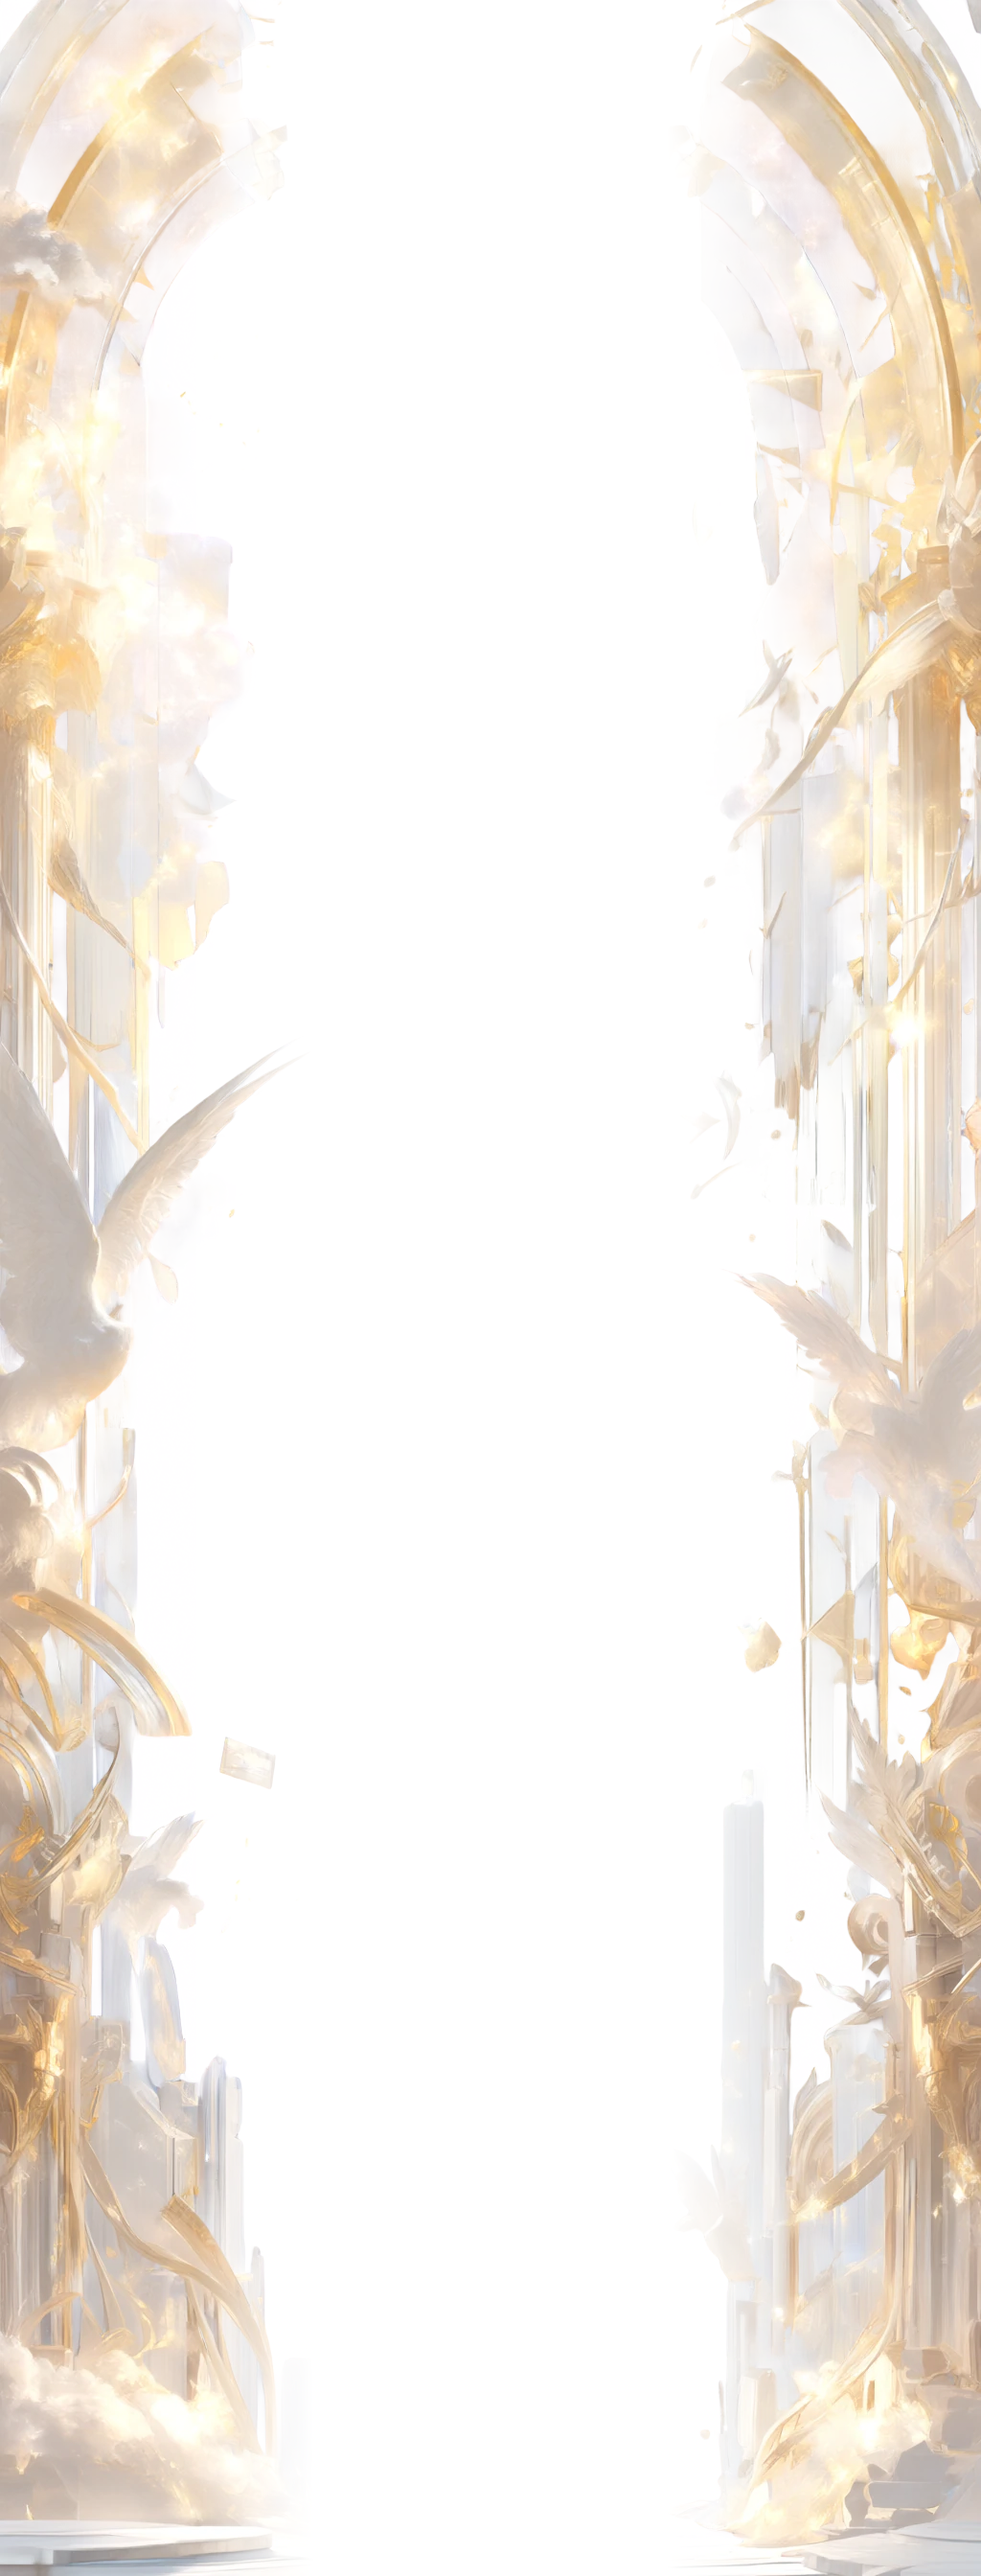
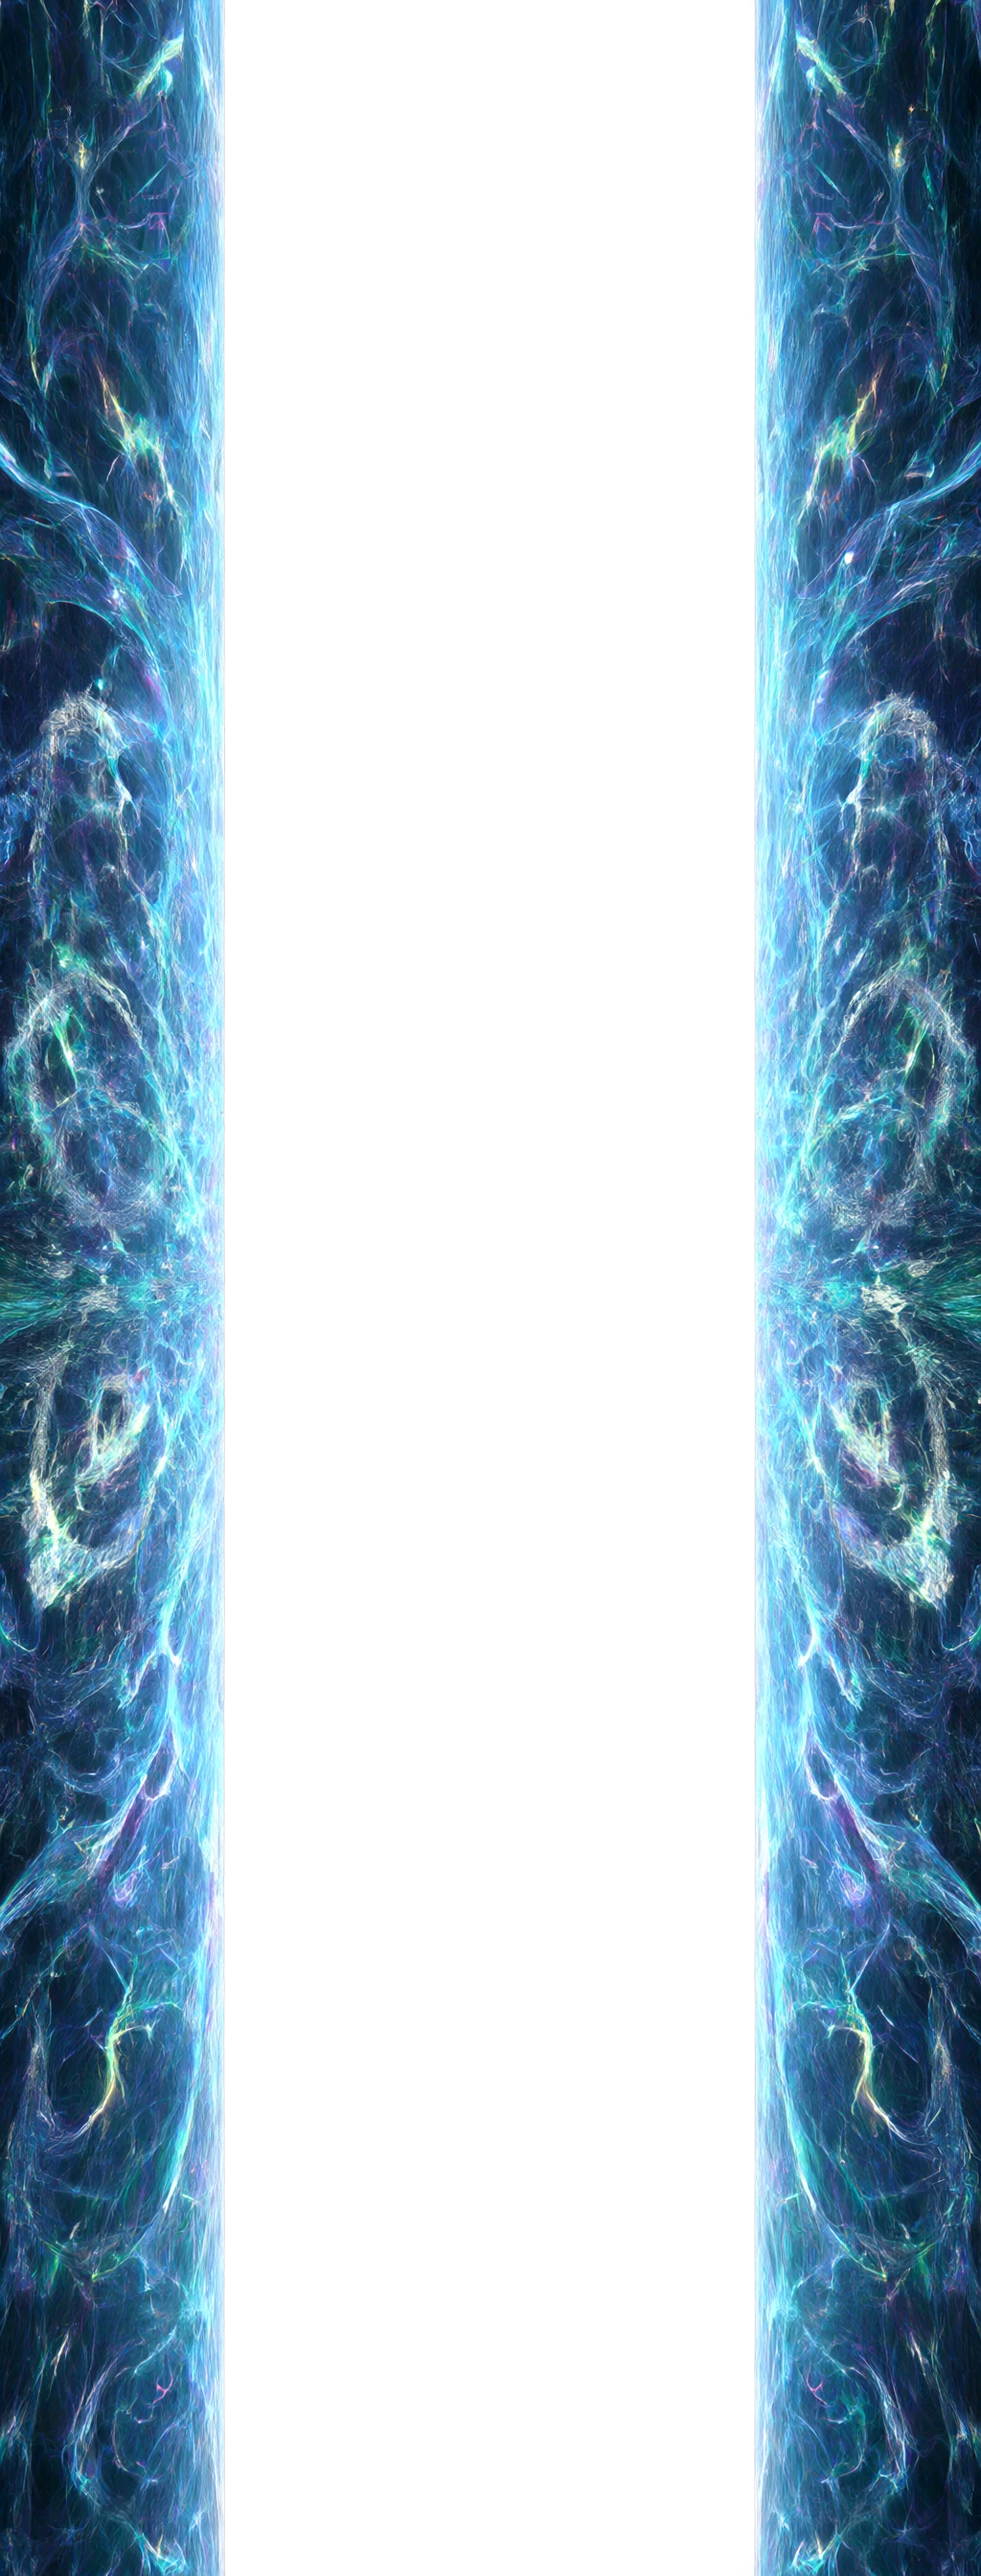
Replace stage4 with hyperspace wormhole scene

diff --git a/game3.js b/game3.js
@@ -258,7 +258,7 @@ var STAGES=[
    {t:55.8,type:1,n:5,form:'line',spd:86},
    {t:59.2,type:2,n:6,form:'pincer',spd:94}
  ]},
- {name:'SANCTUM',bg:BG4,bgm:'c',waves:[
+ {name:'HYPERSPACE',bg:BG4,bgm:'c',waves:[
    {t:0.6,type:6,n:2,form:'turret',spd:56},
    {t:3.4,type:7,n:2,form:'turret',spd:52},
    {t:6.4,type:8,n:2,form:'line',spd:56},
@@ -1315,7 +1315,7 @@ function drawLoopLayer(img,scroll,alpha,fitWidth,mirror,blend){
 }
 function paintStageBg(main,edge,offsetY){
   drawLoopLayer(main,bgScroll+(offsetY||0),1,false,false);
-  if(edge) drawLoopLayer(edge,bgEdgeScroll+(offsetY||0)*1.35,[0.90,0.82,0.72,0.30][stage]||0.8,true,true,['screen','soft-light','overlay','soft-light'][stage]||'source-over');
+  if(edge) drawLoopLayer(edge,bgEdgeScroll+(offsetY||0)*1.35,(stage===3?0:([0.90,0.82,0.72][stage]||0.8)),true,true,['screen','soft-light','overlay','screen'][stage]||'source-over');
 }
 function drawBgDust(){
   ctx.save();

diff --git a/docs/STAGE4.md b/docs/STAGE4.md
@@ -1,8 +1,8 @@
-# Stage 4 — SANCTUM
+# Stage 4 — HYPERSPACE
 
 Final stage of the four-stage campaign.
 
-- Theme: celestial citadel / white-gold sanctum above a dark blue-violet flight corridor
+- Theme: surreal superluminal wormhole tunnel: concentric spacetime rings, a blinding central singularity, and iridescent blue-violet energy walls
 - Main background: `assets/bg/stage4-main.webp`
 - Edge layer: `assets/bg/stage4-edge.webp` (soft-light, narrow gold architecture)
 - Stage overlay: 36% dark blue for bullet readability
